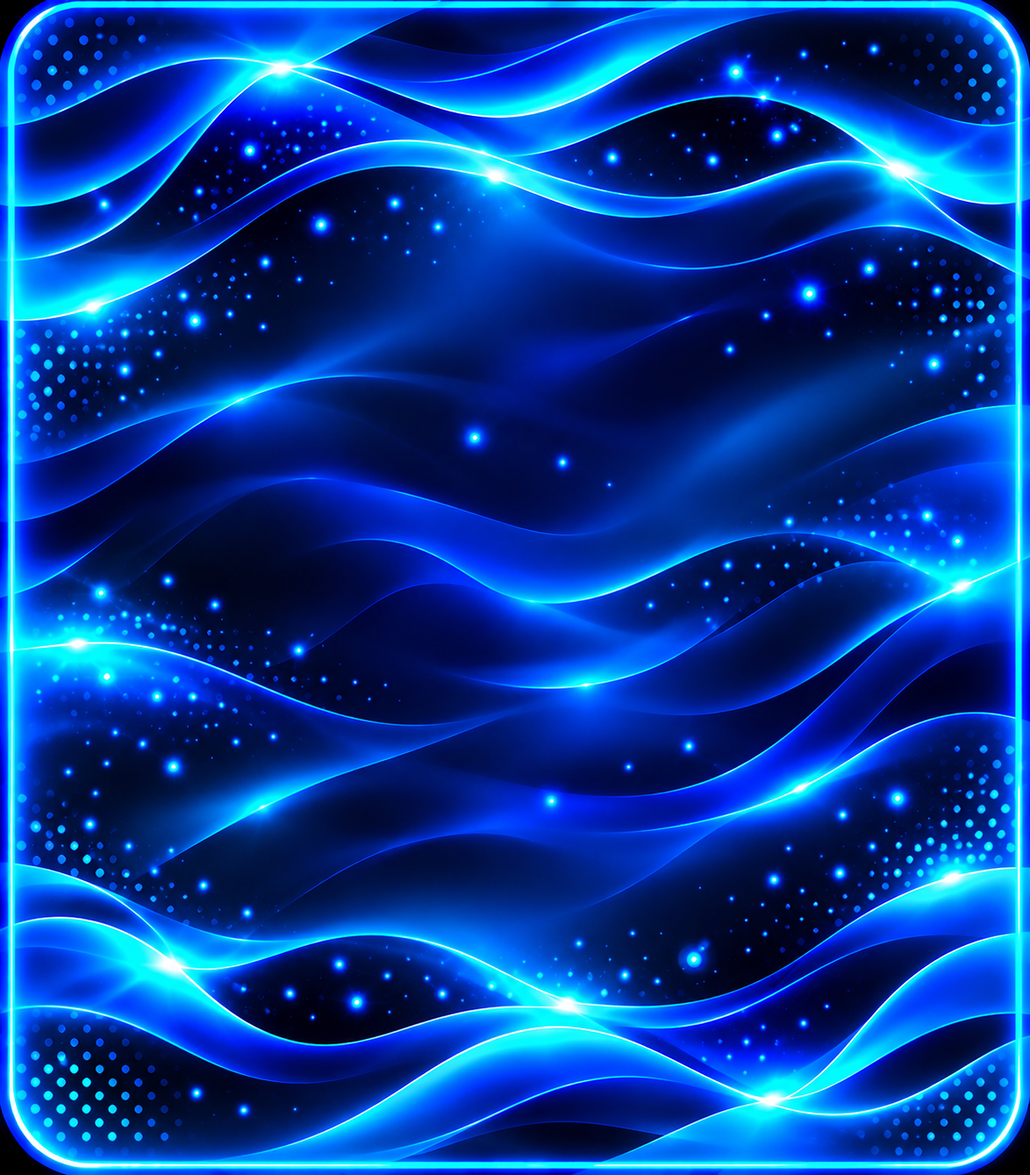
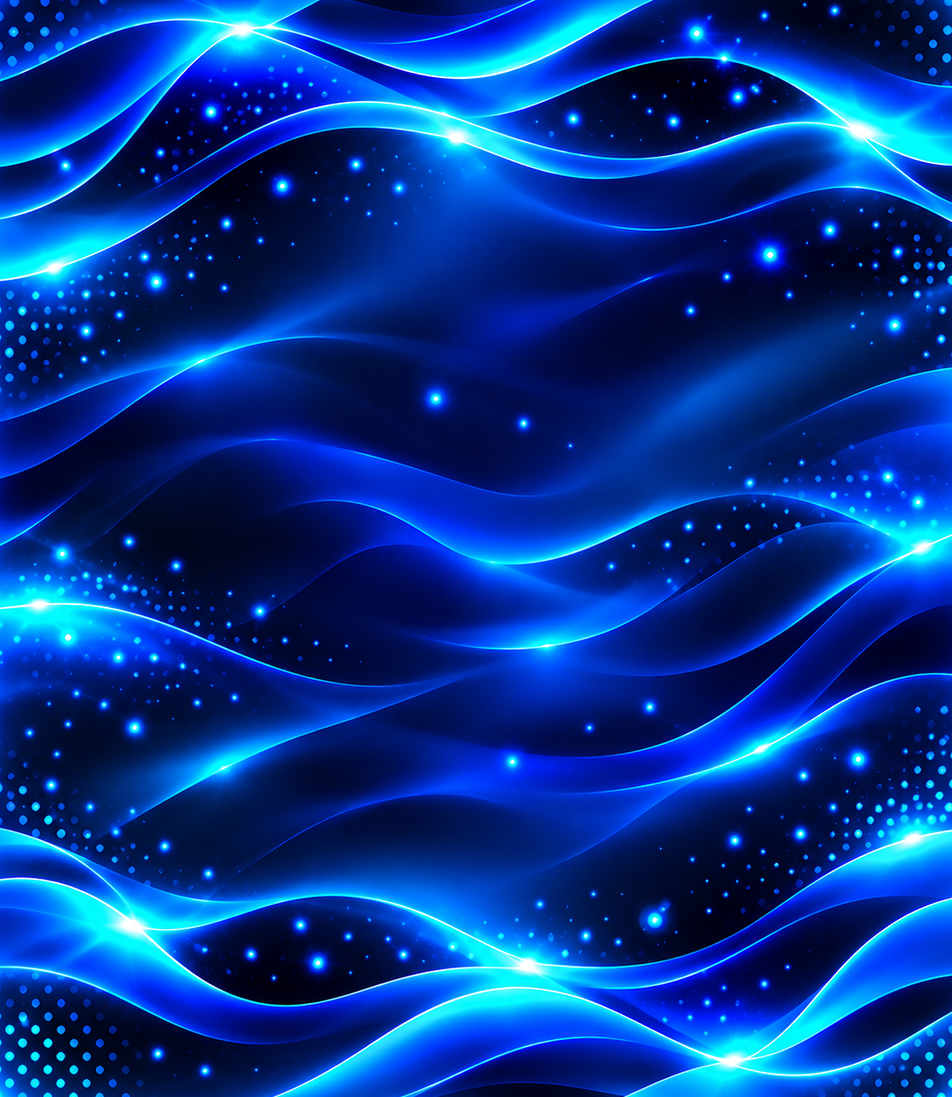
fix: remove blocking browser overlays and repair offline sync

diff --git a/app/(tabs)/index.tsx b/app/(tabs)/index.tsx
@@ -1,5 +1,5 @@
 import { useCallback, useEffect, useReducer, useRef, useState } from "react";
-import { ActivityIndicator, BackHandler, NativeSyntheticEvent, Pressable, StyleSheet, Text, View } from "react-native";
+import { BackHandler, Linking, NativeSyntheticEvent, Pressable, StyleSheet, Text, View } from "react-native";
 import { SafeAreaView } from "react-native-safe-area-context";
 import { WebView, type FileDownload, type WebViewMessageEvent, type WebViewNavigation } from "react-native-webview";
 import * as FileSystem from "expo-file-system/legacy";
@@ -16,6 +16,8 @@ import type { OfflineVideo } from "../../features/offline/types";
 
 const SITE = "https://biomaze.ir/";
 const PANEL_URI = "file:///android_asset/panel-5.html";
+const PANEL_MESSAGE_TYPES = new Set(["panel.ready", "open-site", "files.list", "file.open", "file.delete", "file.rename", "theme-change"]);
+const SITE_MESSAGE_TYPES = new Set(["download.url", "transfer.start", "transfer.chunk", "transfer.complete", "transfer.failed"]);
 type Mode = "ui" | "browser" | "player";
 
 function NativePlayer({ file, onClose }: { file: OfflineVideo; onClose: () => void }) {
@@ -50,18 +52,20 @@ export default function HomeScreen() {
   const pushSnapshot = useCallback((list = filesRef.current, revision = state.revision) => { panelRef.current?.injectJavaScript(`window.receiveFilesSnapshot && window.receiveFilesSnapshot(${JSON.stringify({ revision, files: list })}); true;`); }, [state.revision]);
   const sendFiles = useCallback(async () => { const snapshot = await offlineRepository.refresh(); applySnapshot(snapshot.files); dispatch({ type: "SNAPSHOT", revision: snapshot.revision }); pushSnapshot(snapshot.files, snapshot.revision); }, [applySnapshot, pushSnapshot]);
 
-  const downloadVideo = useCallback(async (url: string, nameHint?: string) => {
+  const downloadVideo = useCallback(async (url: string, nameHint?: string, cookie?: string, pageUrl?: string) => {
     try {
-      const result = await downloadDirect(url, nameHint);
+      const result = await downloadDirect(url, nameHint, undefined, { cookie, referer: pageUrl, userAgent: "Mozilla/5.0 (Linux; Android 13) AppleWebKit/537.36 Chrome/124.0.0.0 Mobile Safari/537.36" });
       const snapshot = await offlineRepository.refresh();
       applySnapshot(snapshot.files);
       dispatch({ type: "SNAPSHOT", revision: snapshot.revision });
       pushSnapshot(snapshot.files, snapshot.revision);
       void result;
-    } catch {
-      setUiError("ذخیرهٔ ویدئو انجام نشد؛ فایل ناقص وارد کتابخانه نشد.");
+    } catch (error) {
+      const code = error instanceof Error ? error.message : "DOWNLOAD_FAILED";
+      if (mode === "browser") setBrowserError(`ذخیرهٔ ویدئو انجام نشد (${code})`);
+      else setUiError(`ذخیرهٔ ویدئو انجام نشد (${code})`);
     }
-  }, [applySnapshot, pushSnapshot]);
+  }, [applySnapshot, mode, pushSnapshot]);
 
   const onMessage = useCallback(async (event: WebViewMessageEvent) => {
     const message = decode(event.nativeEvent.data); if (!message) return;
@@ -69,7 +73,7 @@ export default function HomeScreen() {
     try {
       if (message.type === "panel.ready") { const snapshot = await offlineRepository.initialize(); applySnapshot(snapshot.files); dispatch({ type: "SNAPSHOT", revision: snapshot.revision }); pushSnapshot(snapshot.files, snapshot.revision); return; }
       if (message.type === "open-site") { const next = browserUrlRef.current || String(p.url || SITE); browserUrlRef.current = next; setBrowserUrl(next); setBrowserSourceUrl(next); setBrowserMounted(true); setUiError(null); setBrowserError(null); setMode("browser"); return; }
-      if (message.type === "download.url") { await downloadVideo(String(p.url || ""), String(p.name || "")); return; }
+      if (message.type === "download.url") { await downloadVideo(String(p.url || ""), String(p.name || ""), String(p.cookie || ""), String(p.pageUrl || browserUrlRef.current)); return; }
       if (message.type === "transfer.start") { const id = String(p.transferId || ""); if (blobTransfers.start({ transferId: id, name: String(p.name || ""), mime: String(p.mime || "video/mp4"), total: Number(p.total), byteLength: Number(p.byteLength) })) dispatch({ type: "TRANSFER_START", id, total: Number(p.byteLength) }); return; }
       if (message.type === "transfer.chunk") { const id = String(p.transferId || ""); const index = Number(p.index); if (!blobTransfers.chunk(id, index, String(p.data || ""))) throw new Error("TRANSFER_CHUNK_REJECTED"); const progress = blobTransfers.progress(id); if (progress) dispatch({ type: "TRANSFER_PROGRESS", id, received: progress.received }); browserRef.current?.injectJavaScript(`window.__mazAck && window.__mazAck(${JSON.stringify(id)},${index}); true;`); return; }
       if (message.type === "transfer.failed") { throw new Error(String(p.error || "BLOB_READ_FAILED")); }
@@ -80,6 +84,21 @@ export default function HomeScreen() {
       if (message.type === "file.rename") { const updated = await offlineRepository.rename(String(p.id), String(p.name || "")); const next = await offlineRepository.refresh(); applySnapshot(next.files); dispatch({ type: "SNAPSHOT", revision: next.revision }); pushSnapshot(next.files, next.revision); void updated; return; }
     } catch (error) { const messageText = String(error instanceof Error ? error.message : error); const transferId = String(p.transferId || ""); if (transferId) { blobTransfers.abort(transferId); browserRef.current?.injectJavaScript(`window.__mazNack && window.__mazNack(${JSON.stringify(transferId)}); true;`); } dispatch({ type: "ERROR", message: messageText }); if (message.type.startsWith("transfer.")) dispatch({ type: "TRANSFER_FAIL", id: transferId, message: messageText }); if (mode === "browser") setBrowserError("عملیات با فایل انجام نشد؛ فایل ناقص یا دسترسیناپذیر است."); else setUiError("عملیات با فایل انجام نشد؛ فایل ناقص یا دسترسیناپذیر است."); }
   }, [applySnapshot, blobTransfers, downloadVideo, mode, pushSnapshot, sendFiles]);
+  const onPanelMessage = useCallback((event: WebViewMessageEvent) => {
+    const message = decode(event.nativeEvent.data);
+    if (!message || !PANEL_MESSAGE_TYPES.has(message.type)) return;
+    void onMessage(event);
+  }, [onMessage]);
+  const onSiteMessage = useCallback((event: WebViewMessageEvent) => {
+    const message = decode(event.nativeEvent.data);
+    if (!message || !SITE_MESSAGE_TYPES.has(message.type)) return;
+    const rawUrl = event.nativeEvent.url || browserUrlRef.current;
+    try {
+      const host = new URL(rawUrl).hostname.toLowerCase();
+      if (!(host === "biomaze.ir" || host.endsWith(".biomaze.ir"))) return;
+    } catch { return; }
+    void onMessage(event);
+  }, [onMessage]);
 
   const onPanelLoad = useCallback(() => { setTimeout(() => pushSnapshot(), 80); }, [pushSnapshot]);
   const clearBrowserLoadTimer = useCallback(() => { if (browserLoadTimer.current) { clearTimeout(browserLoadTimer.current); browserLoadTimer.current = null; } }, []);
@@ -95,20 +114,20 @@ export default function HomeScreen() {
   const finishBrowserLoad = useCallback(() => { clearBrowserLoadTimer(); setBrowserLoading(false); }, [clearBrowserLoadTimer]);
   useEffect(() => () => clearBrowserLoadTimer(), [clearBrowserLoadTimer]);
   const onBrowserNavigation = (nav: WebViewNavigation) => { const next = nav.url || browserUrlRef.current; browserUrlRef.current = next; setBrowserUrl(next); setBrowserCanGoBack(nav.canGoBack); setBrowserTitle(nav.title || next.replace(/^https?:\/\//, "").split("/")[0]); };
-  const onFileDownload = useCallback(async (event: NativeSyntheticEvent<FileDownload>) => { await downloadVideo(event.nativeEvent.downloadUrl); }, [downloadVideo]);
+  const onFileDownload = useCallback(async (event: NativeSyntheticEvent<FileDownload>) => { await downloadVideo(event.nativeEvent.downloadUrl, undefined, undefined, browserUrlRef.current); }, [downloadVideo]);
   const address = (browserUrl.replace(/^https?:\/\//, "").split("/")[0] || browserTitle || "biomaze.ir").toLowerCase();
   const retryBrowser = useCallback(() => { setBrowserError(null); beginBrowserLoad(); browserRef.current?.reload(); }, [beginBrowserLoad]);
   const header = <SafeAreaView edges={["top"]} style={styles.headerSafe}><View style={styles.nativeHeader}><Pressable onPress={() => { finishBrowserLoad(); setMode("ui"); }} style={styles.headerButton}><MaterialIcons name="arrow-back" size={23} color="#18212b" /></Pressable><LinearGradient colors={["#14897F", "#3388FF", "#7B5CF0", "#E8557A"]} start={{ x: 0, y: 0.5 }} end={{ x: 1, y: 0.5 }} style={styles.addressBar}><View style={styles.addressContent}><MaterialIcons name="lock" size={19} color="#fff" /><Text style={styles.addressText} numberOfLines={1}>{address}</Text></View></LinearGradient><Pressable onPress={retryBrowser} style={styles.headerButton}><MaterialIcons name="refresh" size={22} color="#18212b" /></Pressable></View></SafeAreaView>;
   return <View style={styles.root}>
     <View pointerEvents={mode === "ui" ? "auto" : "none"} style={[styles.surface, mode === "ui" ? styles.surfaceVisible : styles.surfaceHidden]}>
-      <WebView ref={panelRef} source={{ uri: PANEL_URI }} style={styles.browser} originWhitelist={["*"]} javaScriptEnabled domStorageEnabled allowFileAccess allowUniversalAccessFromFileURLs onMessage={onMessage} onLoadEnd={onPanelLoad} onError={(event) => setUiError(event.nativeEvent.description || "بارگذاری رابط برنامه ناموفق بود")} />
+      <WebView ref={panelRef} source={{ uri: PANEL_URI }} style={styles.browser} originWhitelist={["*"]} javaScriptEnabled domStorageEnabled allowFileAccess onMessage={onPanelMessage} onLoadEnd={onPanelLoad} onError={(event) => setUiError(event.nativeEvent.description || "بارگذاری رابط برنامه ناموفق بود")} />
     </View>
     {browserMounted ? <View pointerEvents={mode === "browser" ? "auto" : "none"} style={[styles.surface, mode === "browser" ? styles.surfaceVisible : styles.surfaceHidden]}>
-      <View style={styles.browserShell}>{header}<View style={styles.browserViewport}><WebView ref={browserRef} source={{ uri: browserSourceUrl }} style={styles.browser} javaScriptEnabled domStorageEnabled allowsFullscreenVideo setSupportMultipleWindows={false} onLoadStart={beginBrowserLoad} onNavigationStateChange={onBrowserNavigation} onMessage={onMessage} injectedJavaScriptBeforeContentLoaded={SITE_BRIDGE_JS} onLoadEnd={finishBrowserLoad} onFileDownload={onFileDownload} onError={(event) => { finishBrowserLoad(); setBrowserError(event.nativeEvent.description || "بارگذاری سایت ناموفق بود"); }} onHttpError={() => { finishBrowserLoad(); setBrowserError("سایت پاسخ مناسبی نداد؛ اتصال اینترنت و آدرس سایت را بررسی کنید."); }} /><View pointerEvents="none" style={[styles.browserLoader, (!browserLoading || browserError) && styles.hiddenLoader]}><ActivityIndicator size="large" color="#bfe8ff" /></View>{browserError ? <View style={styles.browserError}><Text style={styles.browserErrorTitle}>بارگذاری صفحه انجام نشد</Text><Text style={styles.browserErrorText}>{browserError}</Text><Pressable style={styles.retry} onPress={retryBrowser}><Text style={styles.retryText}>تلاش دوباره</Text></Pressable></View> : null}</View></View>
+      <View style={styles.browserShell}>{header}<View style={styles.browserViewport}><WebView ref={browserRef} source={{ uri: browserSourceUrl }} style={styles.browser} javaScriptEnabled domStorageEnabled allowsFullscreenVideo setSupportMultipleWindows={false} onLoadStart={beginBrowserLoad} onNavigationStateChange={onBrowserNavigation} onMessage={onSiteMessage} onShouldStartLoadWithRequest={(request) => { if (/^https?:/i.test(request.url)) return true; void Linking.openURL(request.url).catch(() => undefined); return false; }} injectedJavaScriptBeforeContentLoaded={SITE_BRIDGE_JS} onLoadEnd={finishBrowserLoad} onFileDownload={onFileDownload} onError={(event) => { finishBrowserLoad(); setBrowserError(event.nativeEvent.description || "بارگذاری سایت ناموفق بود"); }} onHttpError={(event) => { const { statusCode, url } = event.nativeEvent; if (statusCode >= 500 && url === browserUrlRef.current) { finishBrowserLoad(); setBrowserError("سرور سایت پاسخ نمیدهد؛ صفحهٔ اصلی را دوباره امتحان کنید."); } }} /><View pointerEvents="none" style={[styles.browserLoader, (!browserLoading || browserError) && styles.hiddenLoader]} /><View pointerEvents="none" style={styles.browserProgress} />{browserError ? <View style={styles.browserError}><Text style={styles.browserErrorTitle}>مشکل در ارتباط با سایت</Text><Text style={styles.browserErrorText}>{browserError}</Text><Pressable style={styles.retry} onPress={retryBrowser}><Text style={styles.retryText}>تلاش دوباره</Text></Pressable></View> : null}</View></View>
     </View> : null}
     {mode === "player" && activeFile ? <View style={styles.playerOverlay}><NativePlayer file={activeFile} onClose={() => setMode("ui")} /></View> : null}
     {uiError ? <View style={styles.uiError}><Text style={styles.errorTitle}>خطا در عملیات</Text><Text style={styles.loaderText}>{uiError}</Text><Pressable style={styles.retry} onPress={() => setUiError(null)}><Text style={styles.retryText}>تلاش دوباره</Text></Pressable></View> : null}
   </View>;
 }
 
-  const styles = StyleSheet.create({ root: { flex: 1, backgroundColor: "#f1f1f3" }, surface: { ...StyleSheet.absoluteFill }, surfaceVisible: { opacity: 1, zIndex: 1 }, surfaceHidden: { opacity: 0, zIndex: 0 }, browserShell: { flex: 1, backgroundColor: "#0D47A1" }, browserViewport: { flex: 1, backgroundColor: "#0D47A1", position: "relative" }, browser: { flex: 1, backgroundColor: "#0D47A1" }, browserLoader: { ...StyleSheet.absoluteFill, alignItems: "center", justifyContent: "center", backgroundColor: "#0D47A1" }, hiddenLoader: { opacity: 0 }, browserError: { ...StyleSheet.absoluteFill, alignItems: "center", justifyContent: "center", backgroundColor: "#0D47A1", padding: 24 }, browserErrorTitle: { color: "#fff", fontSize: 18, fontWeight: "800", textAlign: "center", marginBottom: 10 }, browserErrorText: { color: "#d9efff", fontSize: 14, textAlign: "center", lineHeight: 22, marginBottom: 18 }, headerSafe: { backgroundColor: "#fff" }, nativeHeader: { height: 60, backgroundColor: "#fff", flexDirection: "row", alignItems: "center", justifyContent: "center", paddingHorizontal: 12, gap: 8 }, headerButton: { width: 42, height: 42, borderRadius: 21, alignItems: "center", justifyContent: "center", backgroundColor: "#f4f7f9", borderWidth: 1, borderColor: "#dfe5ea" }, addressBar: { flex: 1, height: 42, borderRadius: 22, justifyContent: "center" }, addressContent: { flexDirection: "row", alignItems: "center", justifyContent: "center", gap: 7, paddingHorizontal: 10 }, addressText: { color: "#fff", fontSize: 14, fontWeight: "800", textAlign: "center" }, loader: { flex: 1, alignItems: "center", justifyContent: "center", backgroundColor: "#f1f1f3", gap: 12, padding: 24 }, loaderText: { color: "#fff", fontSize: 13, textAlign: "center" }, errorTitle: { color: "#fff", fontSize: 18, fontWeight: "800", textAlign: "center" }, retry: { backgroundColor: "#1d8fd0", borderRadius: 22, paddingHorizontal: 26, paddingVertical: 12 }, retryText: { color: "#fff", fontWeight: "700" }, uiError: { ...StyleSheet.absoluteFill, zIndex: 60, alignItems: "center", justifyContent: "center", backgroundColor: "#f1f1f3", gap: 12, padding: 24 }, playerOverlay: { ...StyleSheet.absoluteFill, zIndex: 50 }, player: { flex: 1, backgroundColor: "#000" }, playerBar: { minHeight: 58, backgroundColor: "#000", flexDirection: "row", alignItems: "center", paddingHorizontal: 12, gap: 10 }, close: { width: 40, height: 40, alignItems: "center", justifyContent: "center" }, playerTitle: { flex: 1, color: "#fff", fontSize: 15, fontWeight: "800", textAlign: "right" }, video: { flex: 1, width: "100%" } });
+  const styles = StyleSheet.create({ root: { flex: 1, backgroundColor: "#f1f1f3" }, surface: { ...StyleSheet.absoluteFill }, surfaceVisible: { opacity: 1, zIndex: 1 }, surfaceHidden: { opacity: 0, zIndex: 0 }, browserShell: { flex: 1, backgroundColor: "#0D47A1" }, browserViewport: { flex: 1, backgroundColor: "#0D47A1", position: "relative" }, browser: { flex: 1, backgroundColor: "#0D47A1" }, browserLoader: { position: "absolute", top: 0, left: 0, right: 0, height: 3, backgroundColor: "#3388FF" }, hiddenLoader: { opacity: 0 }, browserProgress: { position: "absolute", top: 0, left: 0, width: "38%", height: 3, backgroundColor: "#bfe8ff" }, browserError: { position: "absolute", left: 12, right: 12, bottom: 12, alignItems: "center", justifyContent: "center", backgroundColor: "rgba(7,20,38,.94)", borderRadius: 16, padding: 16 }, browserErrorTitle: { color: "#fff", fontSize: 18, fontWeight: "800", textAlign: "center", marginBottom: 10 }, browserErrorText: { color: "#d9efff", fontSize: 14, textAlign: "center", lineHeight: 22, marginBottom: 18 }, headerSafe: { backgroundColor: "#fff" }, nativeHeader: { height: 60, backgroundColor: "#fff", flexDirection: "row", alignItems: "center", justifyContent: "center", paddingHorizontal: 12, gap: 8 }, headerButton: { width: 42, height: 42, borderRadius: 21, alignItems: "center", justifyContent: "center", backgroundColor: "#f4f7f9", borderWidth: 1, borderColor: "#dfe5ea" }, addressBar: { flex: 1, height: 42, borderRadius: 22, justifyContent: "center" }, addressContent: { flexDirection: "row", alignItems: "center", justifyContent: "center", gap: 7, paddingHorizontal: 10 }, addressText: { color: "#fff", fontSize: 14, fontWeight: "800", textAlign: "center" }, loader: { flex: 1, alignItems: "center", justifyContent: "center", backgroundColor: "#f1f1f3", gap: 12, padding: 24 }, loaderText: { color: "#fff", fontSize: 13, textAlign: "center" }, errorTitle: { color: "#fff", fontSize: 18, fontWeight: "800", textAlign: "center" }, retry: { backgroundColor: "#1d8fd0", borderRadius: 22, paddingHorizontal: 26, paddingVertical: 12 }, retryText: { color: "#fff", fontWeight: "700" }, uiError: { ...StyleSheet.absoluteFill, zIndex: 60, alignItems: "center", justifyContent: "center", backgroundColor: "#f1f1f3", gap: 12, padding: 24 }, playerOverlay: { ...StyleSheet.absoluteFill, zIndex: 50 }, player: { flex: 1, backgroundColor: "#000" }, playerBar: { minHeight: 58, backgroundColor: "#000", flexDirection: "row", alignItems: "center", paddingHorizontal: 12, gap: 10 }, close: { width: 40, height: 40, alignItems: "center", justifyContent: "center" }, playerTitle: { flex: 1, color: "#fff", fontSize: 15, fontWeight: "800", textAlign: "right" }, video: { flex: 1, width: "100%" } });

diff --git a/features/browser/site-bridge.ts b/features/browser/site-bridge.ts
@@ -12,11 +12,11 @@ export const SITE_BRIDGE_JS = `(function(){
   window.__mazAck=function(id,index){var t=transfers[id];if(!t||t.waiting!==index)return;t.index++;t.waiting=-1;pump(id);};
   window.__mazNack=function(id){delete transfers[id];};
   function emit(blob,name,key){if(!blob||!blob.size||blob.size<1024||blob.size>MAX||seen[key])return;seen[key]=1;var id='blob-'+Date.now()+'-'+Math.random().toString(16).slice(2),total=Math.ceil(blob.size/STEP);transfers[id]={blob:blob,index:0,total:total,waiting:-1};send('transfer.start',{transferId:id,name:safe(name),mime:blob.type||'video/mp4',total:total,byteLength:blob.size});pump(id);}
-  function value(v,n,depth){try{if(depth>2)return;if(v instanceof Blob){emit(v,n,'blob:'+n+':'+v.size);return;}if(v instanceof ArrayBuffer){emit(new Blob([v],{type:'video/mp4'}),n,'array:'+n+':'+v.byteLength);return;}if(ArrayBuffer.isView&&ArrayBuffer.isView(v)){emit(new Blob([v.buffer.slice(v.byteOffset,v.byteOffset+v.byteLength)],{type:'video/mp4'}),n,'view:'+n+':'+v.byteLength);return;}if(typeof v==='string'){if(/^blob:/i.test(v))fetch(v).then(function(x){return x.blob();}).then(function(b){emit(b,n,v);}).catch(function(){});else if(/^https?:/i.test(v)&&isVideo(v))send('download.url',{url:v,name:safe(n||v.split('/').pop())});return;}if(!v||typeof v!=='object')return;Object.keys(v).slice(0,40).forEach(function(k){value(v[k],n||k,depth+1);});}catch(e){}}
+  function value(v,n,depth){try{if(depth>2)return;if(v instanceof Blob){emit(v,n,'blob:'+n+':'+v.size);return;}if(v instanceof ArrayBuffer){emit(new Blob([v],{type:'video/mp4'}),n,'array:'+n+':'+v.byteLength);return;}if(ArrayBuffer.isView&&ArrayBuffer.isView(v)){emit(new Blob([v.buffer.slice(v.byteOffset,v.byteOffset+v.byteLength)],{type:'video/mp4'}),n,'view:'+n+':'+v.byteLength);return;}if(typeof v==='string'){if(/^blob:/i.test(v))fetch(v).then(function(x){return x.blob();}).then(function(b){emit(b,n,v);}).catch(function(){});else if(/^https?:/i.test(v)&&isVideo(v))send('download.url',{url:v,name:safe(n||v.split('/').pop()),cookie:document.cookie,pageUrl:location.href});return;}if(!v||typeof v!=='object')return;Object.keys(v).slice(0,40).forEach(function(k){value(v[k],n||k,depth+1);});}catch(e){}}
   function scanDb(){if(!window.indexedDB||!window.indexedDB.databases)return Promise.resolve();return window.indexedDB.databases().then(function(dbs){return Promise.all((dbs||[]).slice(0,4).map(function(info){return new Promise(function(resolve){try{var req=window.indexedDB.open(info.name);req.onsuccess=function(){var db=req.result;var jobs=Array.prototype.slice.call(db.objectStoreNames,0,2).map(function(s){return new Promise(function(done){try{var q=db.transaction(s,'readonly').objectStore(s).getAll();q.onsuccess=function(){(q.result||[]).slice(0,12).forEach(function(v,i){value(v,s+'-'+i+'.mp4',0);});done();};q.onerror=done;}catch(e){done();}});});Promise.all(jobs).then(function(){try{db.close();}catch(e){}resolve();});};req.onerror=resolve;}catch(e){resolve();}}); }));}).catch(function(){});}
   function scanCache(){if(!window.caches)return Promise.resolve();return window.caches.keys().then(function(keys){return Promise.all((keys||[]).slice(0,4).map(function(k){return window.caches.open(k).then(function(c){return c.keys().then(function(reqs){return Promise.all((reqs||[]).slice(0,12).map(function(req){if(!isVideo(req.url))return Promise.resolve();return c.match(req).then(function(r){if(r&&r.blob) return r.blob().then(function(b){emit(b,safe(req.url.split('/').pop()),'cache:'+req.url);}).catch(function(){});});});});}).catch(function(){});});}).catch(function(){});}
   function scanOnce(){if(scanRunning||scanStarted)return;scanStarted=true;scanRunning=true;Promise.resolve().then(scanDb).then(scanCache).then(function(){scanRunning=false;}).catch(function(){scanRunning=false;});}
-  document.addEventListener('click',function(e){var a=e.target&&e.target.closest?e.target.closest('a[download]'):null;if(a&&a.href)send('download.url',{url:a.href,name:a.getAttribute('download')||''});},true);
+  document.addEventListener('click',function(e){var a=e.target&&e.target.closest?e.target.closest('a[download]'):null;if(a&&a.href)send('download.url',{url:a.href,name:a.getAttribute('download')||'',cookie:document.cookie,pageUrl:location.href});},true);
   window.__mazScanOffline=function(){scanStarted=false;scanOnce();};
   (window.requestIdleCallback||function(fn){setTimeout(fn,3000);})(scanOnce,{timeout:5000});
 })(); true;`;

diff --git a/features/offline/downloader.ts b/features/offline/downloader.ts
@@ -4,8 +4,9 @@ import type { OfflineVideo } from "./types";
 
 export type DownloadResult = { file: OfflineVideo; id: string };
 export type DownloadProgress = { id: string; phase: "downloading" | "verifying" | "committing"; bytes?: number; total?: number };
+export type DownloadHeaders = { cookie?: string; referer?: string; userAgent?: string };
 
-export async function downloadDirect(url: string, nameHint: string | undefined, onProgress?: (progress: DownloadProgress) => void): Promise<DownloadResult> {
+export async function downloadDirect(url: string, nameHint: string | undefined, onProgress?: (progress: DownloadProgress) => void, headers?: DownloadHeaders): Promise<DownloadResult> {
   if (!/^https?:/i.test(url)) throw new Error("INVALID_URL");
   if (/\.m3u8(?:[?#]|$)/i.test(url)) throw new Error("UNSUPPORTED_SOURCE");
   if (!FileSystem.documentDirectory) throw new Error("NO_STORAGE");
@@ -14,7 +15,11 @@ export async function downloadDirect(url: string, nameHint: string | undefined, 
   try {
     await FileSystem.deleteAsync(temp, { idempotent: true });
     onProgress?.({ id, phase: "downloading" });
-    const result = await FileSystem.downloadAsync(url, temp);
+    const requestHeaders: Record<string, string> = {};
+    if (headers?.cookie) requestHeaders.Cookie = headers.cookie;
+    if (headers?.referer) requestHeaders.Referer = headers.referer;
+    if (headers?.userAgent) requestHeaders["User-Agent"] = headers.userAgent;
+    const result = await FileSystem.downloadAsync(url, temp, Object.keys(requestHeaders).length ? { headers: requestHeaders } : undefined);
     if (result.status < 200 || result.status >= 300) throw new Error("HTTP_ERROR");
     const info = await FileSystem.getInfoAsync(temp);
     if (!info.exists || !("size" in info) || !info.size) throw new Error("EMPTY_FILE");

diff --git a/features/offline/repository.ts b/features/offline/repository.ts
@@ -11,7 +11,7 @@ type Manifest = { schemaVersion: 1; revision: number; files: OfflineVideo[] };
 const now = () => new Date().toISOString();
 const cleanName = (value: string, fallback = "biomaze-video.mp4") => {
   const decoded = (() => { try { return decodeURIComponent(value); } catch { return value; } })();
-  const safe = decoded.replace(/[^\p{L}\p{N}._()\- ]/gu, "_").trim().replace(/\s+/g, " ");
+  const safe = decoded.replace(/[^\p{L}\p{N}\p{M}\u200c\u200d._()\- ]/gu, "_").trim().replace(/\s+/g, " ");
   return safe || fallback;
 };
 const extensionOf = (name: string) => name.match(/\.[A-Za-z0-9]{2,8}$/)?.[0].toLowerCase() ?? ".mp4";
@@ -136,7 +136,7 @@ export class OfflineRepository {
       await this.initializeUnlocked();
       const tempInfo = await info(tempUri);
       if (!tempInfo.exists || !("size" in tempInfo) || !tempInfo.size) throw new Error("EMPTY_FILE");
-      const safe = cleanName(requestedName); const ext = extensionOf(safe); const stem = safe.slice(0, -ext.length) || "biomaze-video";
+      const safe = cleanName(requestedName); const hasExt = /\.[A-Za-z0-9]{2,8}$/.test(safe); const ext = hasExt ? extensionOf(safe) : ".mp4"; const stem = (hasExt ? safe.slice(0, -ext.length) : safe) || "biomaze-video";
       const existingNames = new Set((await FileSystem.readDirectoryAsync(OFFLINE_DIR).catch(() => [] as string[])).filter((name) => !name.endsWith(PART_SUFFIX)));
       let fileName = `${stem}${ext}`; let index = 1;
       while (existingNames.has(fileName)) fileName = `${stem} (${index++})${ext}`;

diff --git a/app/_layout.tsx b/app/_layout.tsx
@@ -32,11 +32,11 @@ export default function RootLayout() {
 }
 
 const styles = StyleSheet.create({
-  root: { flex: 1, alignItems: "center", justifyContent: "center", backgroundColor: "#0D47A1", padding: 28 },
-  title: { color: "#fff", fontSize: 22, fontWeight: "800", marginBottom: 12, textAlign: "center" },
-  message: { color: "#e5f4ff", fontSize: 15, lineHeight: 24, textAlign: "center", marginBottom: 22 },
+  root: { flex: 1, alignItems: "center", justifyContent: "center", backgroundColor: "#f1f1f3", padding: 28 },
+  title: { color: "#18212b", fontSize: 22, fontWeight: "800", marginBottom: 12, textAlign: "center" },
+  message: { color: "#53606c", fontSize: 15, lineHeight: 24, textAlign: "center", marginBottom: 22 },
   button: { backgroundColor: "#fff", borderRadius: 24, paddingHorizontal: 26, paddingVertical: 13 },
   buttonText: { color: "#0D47A1", fontWeight: "800" },
-  detailsToggle: { color: "#bfe8ff", marginTop: 18 },
-  details: { color: "#fff", marginTop: 12, textAlign: "center" },
+  detailsToggle: { color: "#1d8fd0", marginTop: 18 },
+  details: { color: "#18212b", marginTop: 12, textAlign: "center" },
 });

diff --git a/assets/panel-5.html b/assets/panel-5.html
@@ -57,7 +57,7 @@
   #home .welcome {
     width: 100%; min-height: 420px;
     background-image: linear-gradient(145deg, rgba(4,16,70,.38), rgba(4,24,92,.62)), url('home-site-background.png');
-    background-size: 100% 100%; background-position: center; background-repeat: no-repeat;
+    background-size: cover; background-position: center; background-repeat: no-repeat;
     border: 2px solid rgba(93,214,255,.72); border-radius: 26px;
     color: #fff; text-shadow: 0 2px 12px rgba(0,0,0,.72);
     overflow: hidden; position: relative;

diff --git a/assets/panel-controller.js b/assets/panel-controller.js
@@ -31,6 +31,7 @@ const $ = (s, r = document) => r.querySelector(s);
     if (tab) $('#track').style.setProperty('--i', tab.dataset.i);
     $('#bell').classList.toggle('active', page === 'notifs');
     $('#screen').scrollTo({ top: 0 });
+    if (page === 'downloads') send('files.list');
   }
   $$('.tab, #bell').forEach(b => tap(b, () => go(b.dataset.page)));
 
